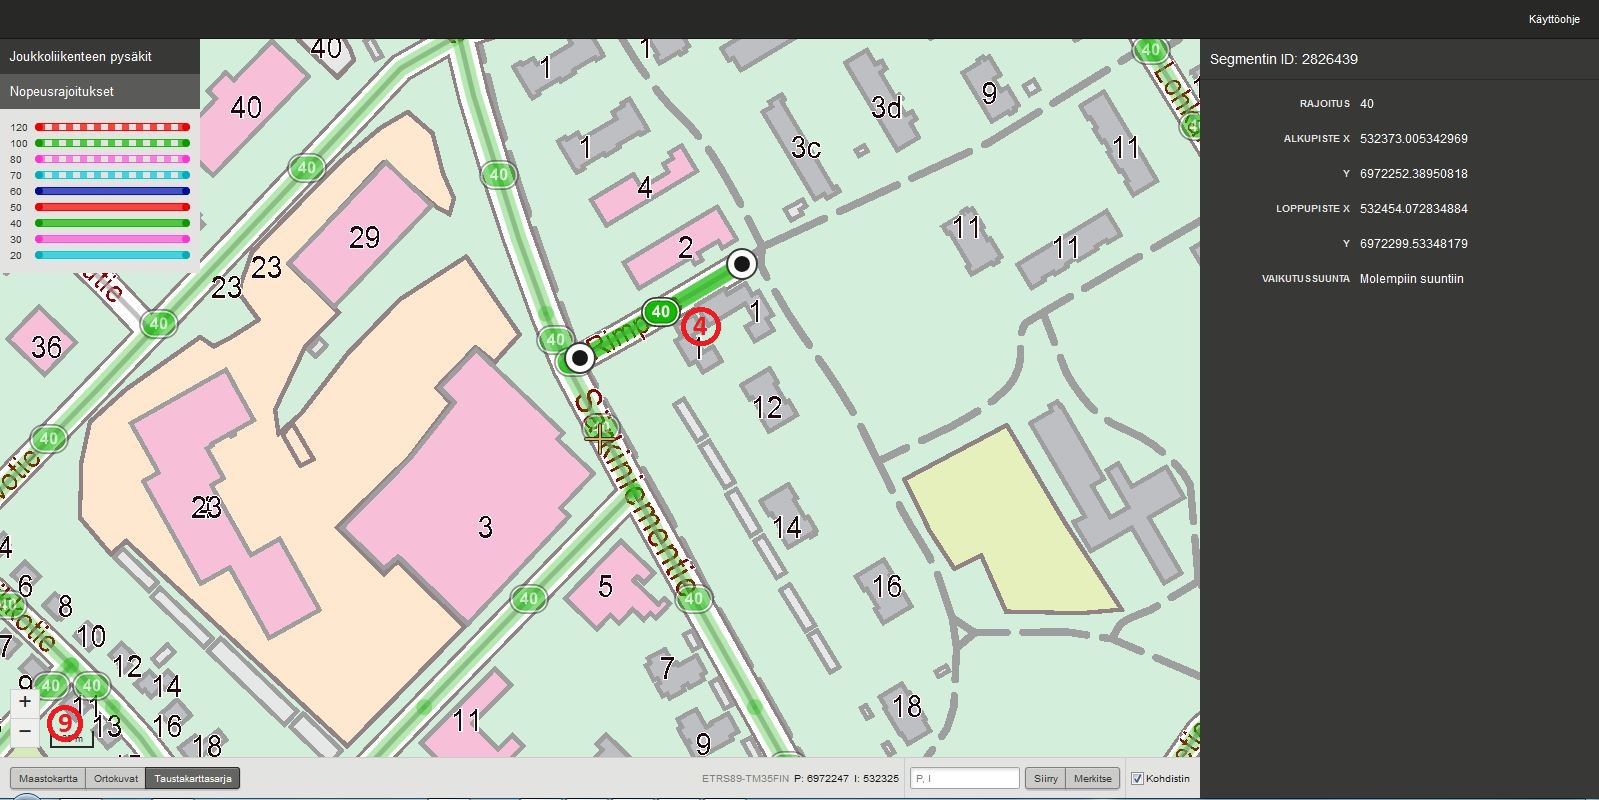
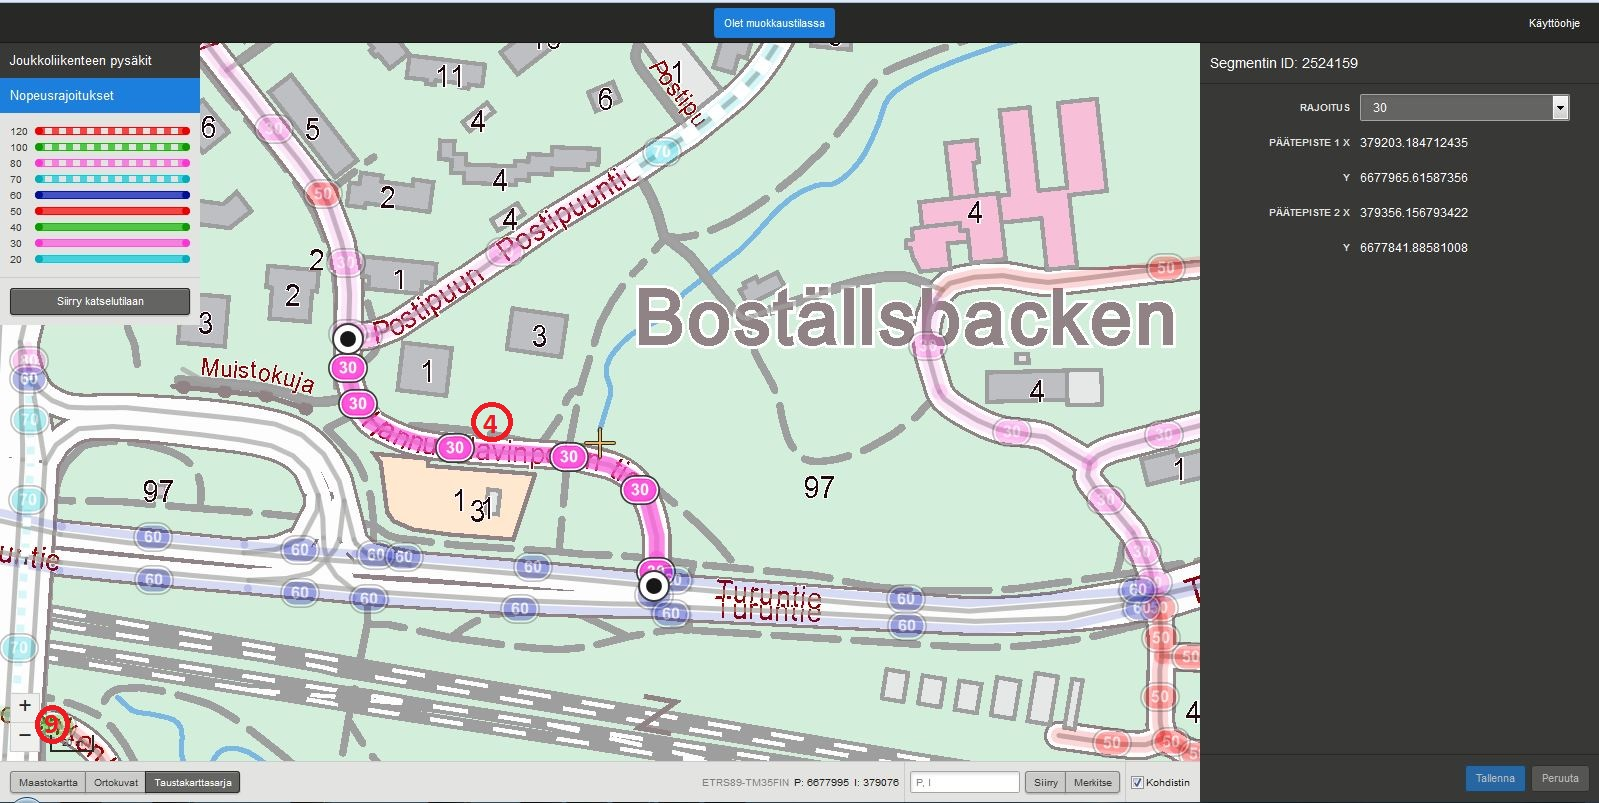
updating speed limits on manual

diff --git a/UI/manual/index.md b/UI/manual/index.md
@@ -196,20 +196,17 @@ _Joukkoliikenteen pys&auml;kin tietojen katselu._
 
 Nopeusrajoitukset tulevat n&auml;kyviin, kun kartan mittakaavataso on 1:20 000 tai tarkempi (9). Yksitt&auml;isen nopeusrajoituksen voi valita klikkaamalla kartalta sen geometriaa. T&auml;ll&ouml;in valituksi tulevat kaikki nopeusrajoitukset, joilla on sama ID. Nopeusrajoitusketjun geometria tummentuu ja muut nopeusrajoitukset n&auml;kyv&auml;t haaleammalla. Valitun geometrian p&auml;&auml;tepisteet merkit&auml;&auml;n kartalle palloilla (4). Sivun oikeaan laitaan avautuu nopeusrajoituksen ominaisuustieton&auml;kym&auml;.
 
-Ominaisuustieton&auml;kym&auml;ss&auml; on nopeusrajoituksen ID, arvo (km/h), vaikutussuunta ja alku- ja loppupisteen koordinaatit ETRS89-TM35FIN-koordinaattij&auml;rjestelm&auml;ss&auml;. Vaikutussuunnan arvot ovat: molempiin suuntiin, pohjoisesta etel&auml;&auml;n, etel&auml;st&auml; pohjoiseen, id&auml;st&auml; l&auml;nteen ja l&auml;nnest&auml; it&auml;&auml;n. Jos vaikutussuunta ei ole molempiin suuntiin, lasketaan se nopeusrajoituksen alku- ja loppupisteen v&auml;lisen janan kulmasta. Pohjoinen on nolla astetta ja koko kierros 360 astetta. Arvot m&auml;&auml;r&auml;ytyv&auml;t kulman mukaan seuraavasti:
-
-|Kulma|Vaikutussuunta|
-|-----|--------------|
-|[280, 80]|Etel&auml;st&auml; pohjoiseen|
-|[80, 100]|L&auml;nnest&auml; it&auml;&auml;n|
-|[100, 260]| Pohjoisesta etel&auml;&auml;n|
-|[260, 280]|Id&auml;st&auml; l&auml;nteen|
-
-Nopeusrajoituksen valinnan saa pois klikkaamalla karttaa. 
+Ominaisuustieton&auml;kym&auml;ss&auml; on nopeusrajoituksen ID, arvo (km/h) sek&auml; p&auml;&auml;tepisteen 1 ja p&auml;&auml;tepisteen 2 koordinaatit ETRS89-TM35FIN-koordinaattij&auml;rjestelm&auml;ss&auml;.
 
 ![Nopeusrajoituksen tietojen katselu](k24.JPG)
 
 _Nopeusrajoituksen tietojen katselu._
+
+Nopeusrajoitukset on visualisoitu eri tavoin riippuen vaikutussuunnasta. Nopeusrajoituksen vaikutussuunta voi olla molempiin suuntiin tai vain toiseen suuntaan. Jos vaikutussuunta on molempiin suuntiin, nopeusrajoitus on visualisoitu yhdellä paksulla viivalla (23). Yksisuuntainen vaikutus on visualisoitu ohuemmalla viivalla vaikutussuunnan mukaan tielinjan reunaan (24).
+
+![Nopeusrajoitusten visualisointi](k27.JPG)
+
+_Nopeusrajoitusten visualisointi._
 
 5. Muokkaustila
 ---------------
